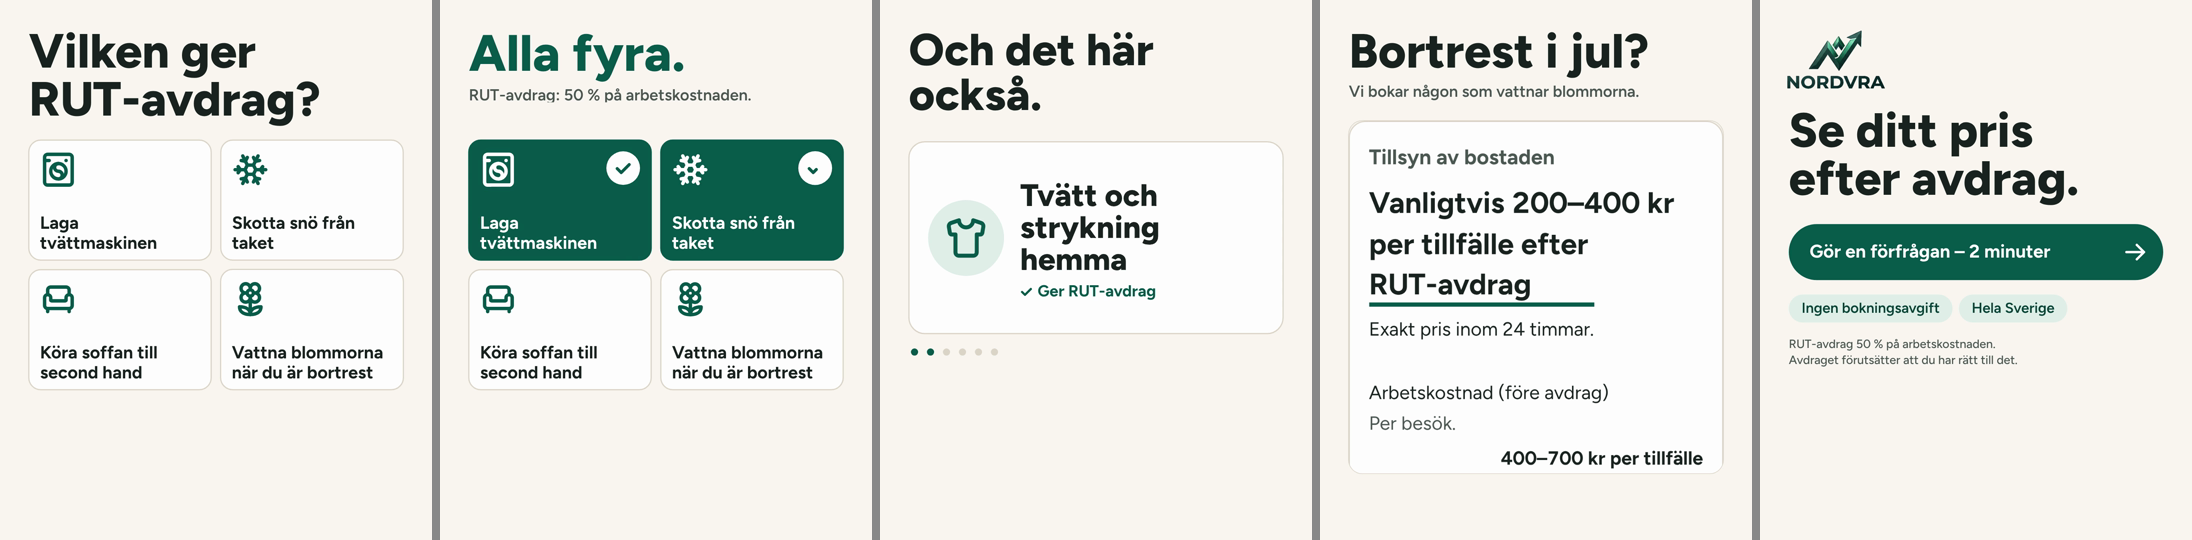
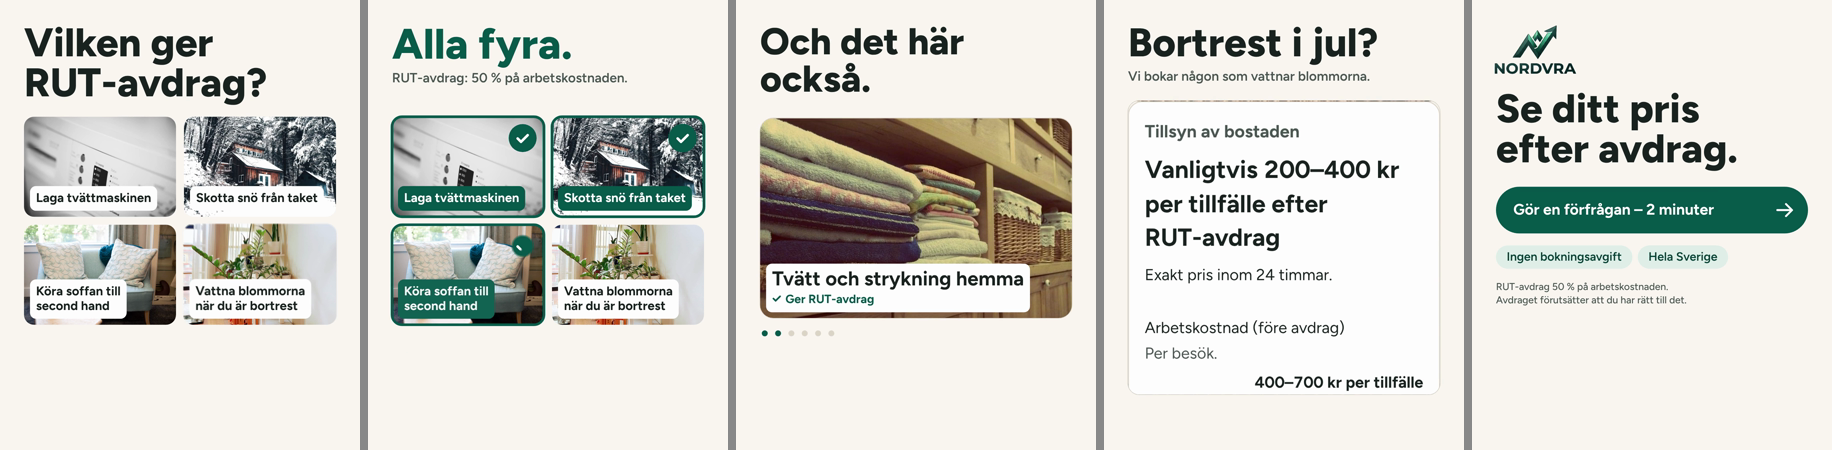
Update storyboards from the final photo render
Claude-Session: https://claude.ai/code/session_01WXjHD4137HHrZP6vtC8p4z

diff --git a/motion-studio/docs/shotlist.md b/motion-studio/docs/shotlist.md
@@ -3,7 +3,8 @@
 20 s, 120 BPM (beat = 0.5 s, bar = 2 s, 10 bars). 9:16 first, then 4:5 from the same timeline.
 Works with the sound off: every idea is on screen as text.
 
-Storyboards: `docs/storyboard_9x16.png`, `docs/storyboard_4x5.png`. Every job is shown with a real CC0 stock photo
+Storyboards (frames from the final render at 1.5, 4.7, 7.5, 13.5 and 18.7 s): `docs/storyboard_9x16.png`,
+`docs/storyboard_4x5.png`. Every job is shown with a real CC0 stock photo
 (`assets/photos/CREDITS.md`); a job without a photo falls back to its icon.
 
 **The idea:** a quiz instead of a list. "Vilken ger RUT-avdrag?" over four surprising everyday
